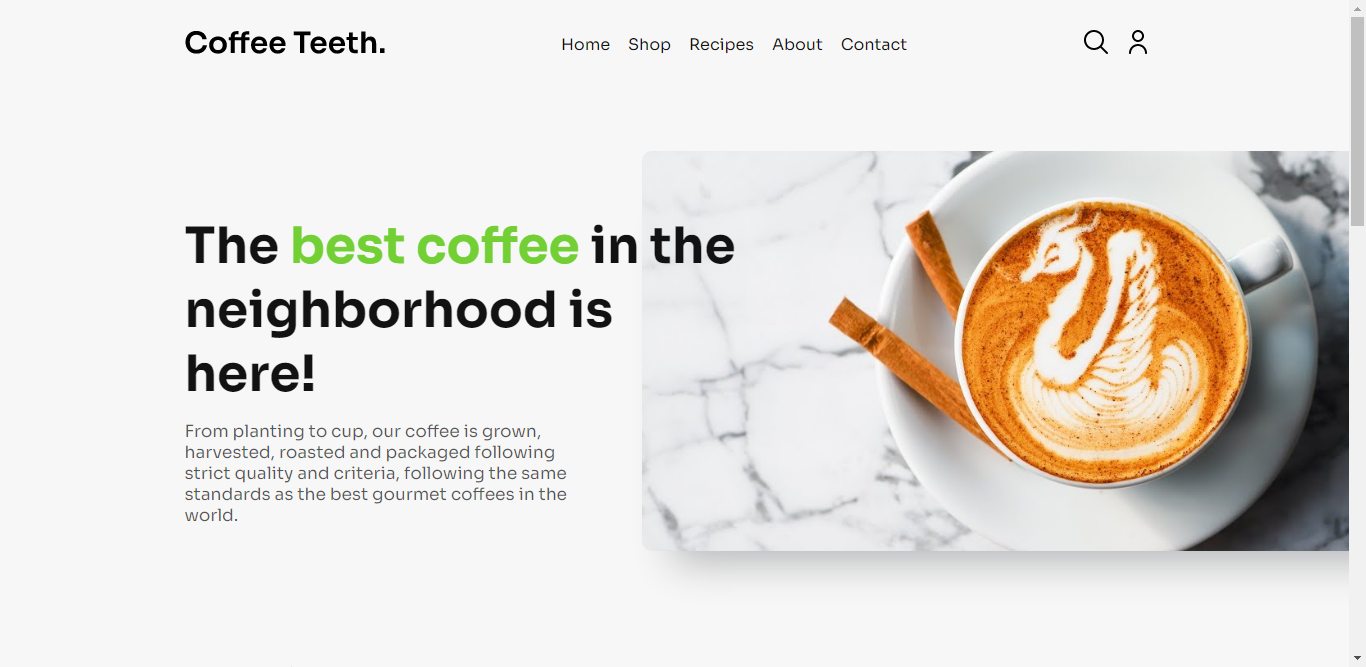
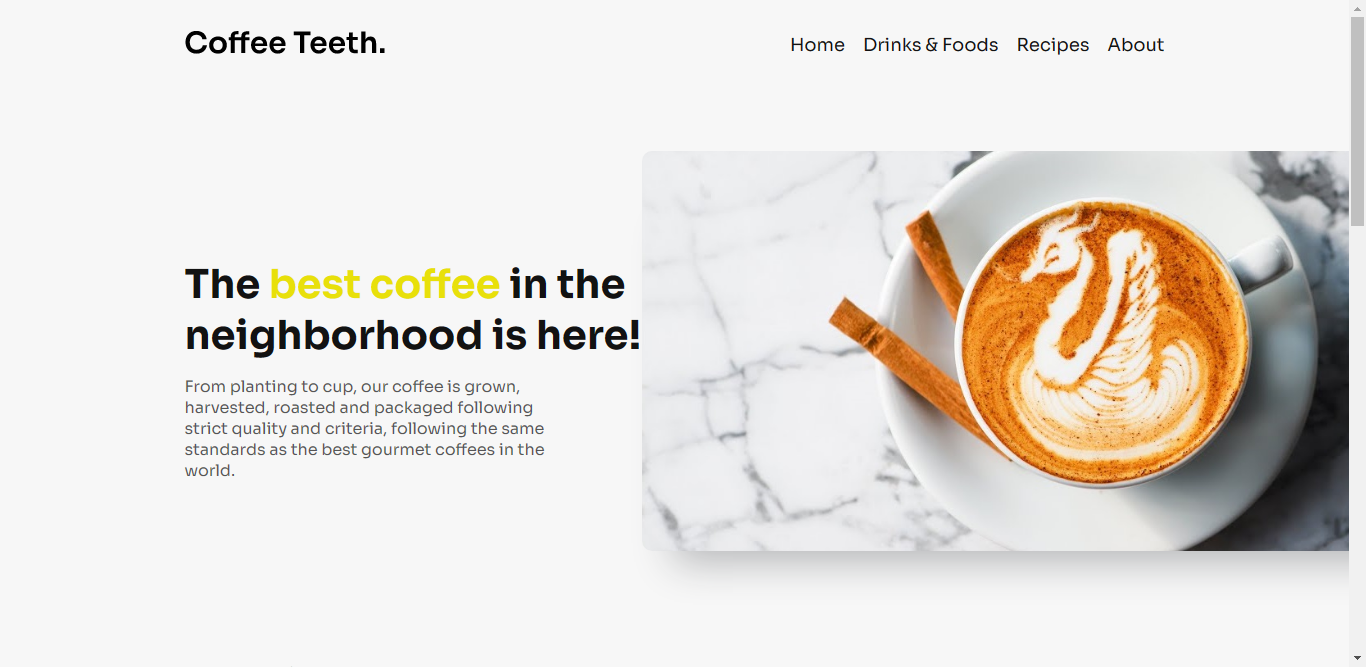
:lipstick: feat: modification in the styles of texts and cards :bricks: ci: image path modification

Changed region(s): [[0.123, 0.3298, 0.5534, 0.7796], [0.3997, 0.06, 0.8609, 0.09]]

diff --git a/styles/main.css b/styles/main.css
@@ -1,1 +1,1 @@
-*{box-sizing:border-box;margin:0;padding:0;outline:0;font-family:"Sora",sans-serif;color:#121212}* ul,* li{list-style:none}* a{text-decoration:none}html{font-size:62.5%}html,body{scroll-behavior:smooth;background:#f7f7f7;height:100vh;text-rendering:optimizelegibility;-webkit-font-smoothing:antialiased;position:relative;height:100%}body{font-size:1.6rem;overflow-x:hidden}@keyframes rainbow{0%{color:#4b32c1}25%{color:#b936c8}50%{color:#f15066}75%{color:#efe107}100%{color:#18c356}}header{position:fixed;top:0;z-index:999;background:#f7f7f7;width:100%;user-select:none;-webkit-user-select:none;-moz-user-select:none}header div.container{display:flex;justify-content:space-between;align-items:center;width:90%;max-width:980px;margin:auto;padding:30px 0}header div.container div.menu-section nav ul{display:flex;gap:1.8rem;transition:opacity .3s ease-out;font-size:1.8rem}header div.container div.menu-section nav ul li:hover{opacity:.5}header div.logo img{width:20rem;transition:opacity .3s ease-out}header div.logo img:hover{opacity:.5}header div.utility-menu{display:none}.addShadow{transform:shadow .3s ease-out;box-shadow:0 4px 6px -1px hwb(0 0% 100%/0.1),0 2px 4px -2px rgba(0,0,0,.1)}div.hero{display:flex;align-items:center;position:relative;width:90%;max-width:980px;height:580px;margin:auto;margin-top:80px}div.hero div.hero-image{width:88.5rem;max-width:885px;height:400px;background-image:url("../assets/hero-image.jpg");background-position:center;background-size:cover;background-repeat:no-repeat;box-shadow:0px 43px 38px -32px #b5b6b8;border-radius:10px;position:absolute;top:7.1rem;right:-36.2rem;z-index:1}div.hero div.hero-info{position:absolute;z-index:2}div.hero div.hero-info h2{font-size:4rem;width:560px}div.hero div.hero-info h2 span{animation:rainbow 2s infinite linear alternate}div.hero div.hero-info p{font-size:1.6rem;width:391px;margin-top:15px;opacity:.7}div.trending-coffees{height:-moz-fit-content;height:fit-content}div.trending-coffees div.container{width:90%;max-width:980px;margin:auto}div.trending-coffees div.container div.header{display:flex;align-items:center;justify-content:space-between}div.trending-coffees div.container div.header h2{font-size:3.4rem}div.trending-coffees div.container div.header h2 span{display:block}div.trending-coffees div.container div.header h2 span:last-child{color:#f15066}div.trending-coffees div.container div.header a:hover{opacity:.8;text-decoration:underline}div.trending-coffees div.container div.cards-wrapper{display:grid;align-items:center;gap:1.5rem;display:grid;grid-template-columns:repeat(auto-fit, minmax(250px, 1fr));grid-gap:20px;margin-top:50px}div.trending-coffees div.container div.cards-wrapper div.card-coffee{position:relative;cursor:pointer;user-select:none;-webkit-user-select:none;-moz-user-select:none;transition:transform .3s ease-out}div.trending-coffees div.container div.cards-wrapper div.card-coffee:hover{transform:scale(1.05);opacity:1}div.trending-coffees div.container div.cards-wrapper div.card-coffee img{width:100%;height:18rem;-o-object-fit:cover;object-fit:cover;border-radius:10px}div.trending-coffees div.container div.cards-wrapper div.card-coffee div.info{position:absolute;bottom:-10px;left:10px;font-size:1.6rem;font-weight:500;background:#fff;padding:5px;border-radius:10px;opacity:.8}div.some-recipes{height:-moz-fit-content;height:fit-content;margin:50px 0}div.some-recipes div.container{width:90%;max-width:980px;margin:auto}div.some-recipes div.container div.header{display:flex;align-items:center;justify-content:space-between}div.some-recipes div.container div.header h2{font-size:3.4rem}div.some-recipes div.container div.header h2 span{display:block}div.some-recipes div.container div.header h2 span:last-child{color:#4b32c1}div.some-recipes div.container div.header a:hover{opacity:.8;text-decoration:underline}div.some-recipes div.container div.recipes-wrapper{display:grid;align-items:center;gap:1.5rem;display:grid;grid-template-columns:repeat(auto-fit, minmax(250px, 1fr));grid-gap:20px;margin-top:50px}div.some-recipes div.container div.recipes-wrapper div.card-recipe{position:relative;cursor:pointer;user-select:none;-webkit-user-select:none;-moz-user-select:none;transition:transform .3s ease-out}div.some-recipes div.container div.recipes-wrapper div.card-recipe:hover{transform:scale(1.05)}div.some-recipes div.container div.recipes-wrapper div.card-recipe:hover .arrow{opacity:1;transform:rotate(45deg)}div.some-recipes div.container div.recipes-wrapper div.card-recipe img{width:100%;height:18rem;-o-object-fit:cover;object-fit:cover;border-radius:10px}div.some-recipes div.container div.recipes-wrapper div.card-recipe div.arrow{position:absolute;right:25px;bottom:25px;opacity:.75;transition:.3s ease-out;background:#414044;border-radius:50%;width:50px;height:50px;background-image:url(../assets/slanted-arrow.svg);background-position:center;background-repeat:no-repeat;background-size:cover}div.some-recipes div.container div.recipes-wrapper div.card-recipe h3{font-size:1.8rem;font-weight:500;display:-webkit-box;-webkit-line-clamp:1;-webkit-box-orient:vertical;overflow:hidden;text-overflow:ellipsis;opacity:.8;height:100%;word-break:keep-all}div.our-products{width:90%;max-width:980px;margin:120px auto;font-size:3.4rem}div.our-products h2{font-size:4rem}div.our-products h2 span:nth-child(2){color:#18c356}div.our-products div.search{display:flex;align-items:center;justify-content:center;gap:1rem;border:1px solid #121212;border-radius:5px;padding:10px;width:100%;max-width:980px;margin-top:40px;background:#fff}div.our-products div.search input{height:30px;padding:5px;border:none;background:none;flex:1}div.our-products div.search div.cross{display:none;line-height:1rem;cursor:pointer}div.our-products section{margin:40px 0}div.our-products section h3{font-size:3rem}div.our-products section div.drinks-container{display:grid;grid-template-columns:repeat(auto-fit, minmax(250px, 1fr));grid-gap:2rem;margin:30px 0 90px 0}div.our-products section div.drinks-container div.drink-card{position:relative;cursor:pointer;user-select:none;-webkit-user-select:none;-moz-user-select:none;transition:transform .3s ease-out}div.our-products section div.drinks-container div.drink-card:hover{transform:scale(1.05)}div.our-products section div.drinks-container div.drink-card:hover div.info h3{opacity:1}div.our-products section div.drinks-container div.drink-card img{width:100%;min-height:25rem;height:18rem;-o-object-fit:cover;object-fit:cover;border-radius:10px}div.our-products section div.drinks-container div.drink-card div.info{position:absolute;bottom:-10px;left:10px;background:#fff;padding:5px;border-radius:10px}div.our-products section div.drinks-container div.drink-card div.info h3{font-size:1.8rem;font-weight:500;display:-webkit-box;-webkit-line-clamp:1;-webkit-box-orient:vertical;overflow:hidden;text-overflow:ellipsis;opacity:.8;height:100%;word-break:keep-all}div.our-products section div.foods-container{display:grid;grid-template-columns:repeat(auto-fit, minmax(250px, 1fr));grid-gap:2rem;margin:30px 0 60px 0}div.our-products section div.foods-container div.food-card{position:relative;cursor:pointer;user-select:none;-webkit-user-select:none;-moz-user-select:none;transition:transform .3s ease-out}div.our-products section div.foods-container div.food-card:hover{transform:scale(1.05)}div.our-products section div.foods-container div.food-card:hover div.info h3{opacity:1}div.our-products section div.foods-container div.food-card img{width:100%;min-height:25rem;height:18rem;-o-object-fit:cover;object-fit:cover;border-radius:10px}div.our-products section div.foods-container div.food-card div.info{position:absolute;bottom:-10px;left:10px;background:#fff;padding:5px;border-radius:10px}div.our-products section div.foods-container div.food-card div.info h3{font-size:1.8rem;font-weight:500;display:-webkit-box;-webkit-line-clamp:1;-webkit-box-orient:vertical;overflow:hidden;text-overflow:ellipsis;opacity:.8;height:100%;word-break:keep-all}.our-recipes{width:90%;max-width:980px;margin:120px auto;font-size:3.4rem}.our-recipes h2{font-size:4rem}.our-recipes h2 span:nth-child(2){color:#efe107}.our-recipes div.search{display:flex;align-items:center;justify-content:center;gap:1rem;border:1px solid #121212;border-radius:5px;padding:10px;width:100%;max-width:980px;margin-top:40px;background:#fff}.our-recipes div.search input{height:30px;padding:5px;border:none;background:none;flex:1}.our-recipes div.search div.cross{display:none;line-height:1rem;cursor:pointer}.our-recipes section.all-recipes{margin:40px 0}.our-recipes section.all-recipes h3{font-size:2rem}.our-recipes section.all-recipes div.recipes-container{display:grid;grid-template-columns:repeat(auto-fit, minmax(250px, 1fr));grid-gap:2rem;margin:30px 0 60px 0}.our-recipes section.all-recipes div.recipes-container div.card-recipe{position:relative;cursor:pointer;user-select:none;-webkit-user-select:none;-moz-user-select:none;transition:transform .3s ease-out}.our-recipes section.all-recipes div.recipes-container div.card-recipe:hover{transform:scale(1.05)}.our-recipes section.all-recipes div.recipes-container div.card-recipe:hover .arrow{opacity:1;transform:rotate(45deg)}.our-recipes section.all-recipes div.recipes-container div.card-recipe img{width:100%;height:18rem;-o-object-fit:cover;object-fit:cover;border-radius:10px}.our-recipes section.all-recipes div.recipes-container div.card-recipe div.arrow{position:absolute;right:25px;bottom:25px;opacity:.75;transition:.3s ease-out;background:#414044;border-radius:50%;width:50px;height:50px;background-image:url(../assets/slanted-arrow.svg);background-position:center;background-repeat:no-repeat;background-size:cover}.our-recipes section.all-recipes div.recipes-container div.card-recipe h3{font-size:1.8rem;font-weight:500;display:-webkit-box;-webkit-line-clamp:1;-webkit-box-orient:vertical;overflow:hidden;text-overflow:ellipsis;opacity:.8;word-break:keep-all}.about-container{width:90%;max-width:980px;margin:120px auto;font-size:3.4rem}.about-container h2{margin-bottom:30px;font-size:4rem}.about-container h3{font-size:3rem;margin-bottom:10px}.about-container p{font-size:2.6rem}.about-container .initial-presentation{margin-bottom:50px}.about-container .initial-presentation a{text-decoration:underline;color:#4b32c1}.about-container .main-presentation{margin-bottom:50px}.about-container .main-presentation a{display:block;width:-moz-fit-content;width:fit-content;word-break:keep-all;margin-top:20px;padding:10px 20px;border-radius:5px;background:#121212;border:none;font-size:2rem;color:#fff;transition:background-color .3s ease-out;cursor:pointer}.about-container .main-presentation a:hover{background-color:#2c2c2c}.about-container .address-info{margin-bottom:50px}.about-container .address-info address,.about-container .address-info p{font-size:2.4rem}.about-container .address-info p{margin-top:10px}.about-container .final-presentation{background:#222020;padding:20px;border-radius:10px}.about-container .final-presentation *{color:#fff}.about-container .final-presentation .form-contact form input:not(input[type=submit]),.about-container .final-presentation textarea{display:block;width:100%;padding:10px;border:none;color:#000;margin:10px 0;border-radius:5px}.about-container .final-presentation textarea{height:80px}.about-container .final-presentation .input-messages{display:none;font-size:1.6rem;padding:10px;border-radius:5px;width:-moz-fit-content;width:fit-content;margin:10px 0}.about-container .final-presentation input[type=submit]{padding:10px 20px;background:#fff;color:#000;border:none;border-radius:5px;transition:transform .3s ease-out;cursor:pointer}.about-container .final-presentation input[type=submit]:hover{transform:scale(1.1)}.modal-overlay{display:none}.modal-overlay.active{display:block;position:fixed;top:0;left:0;z-index:99999;background:rgba(65,65,65,.4235294118);padding:20px;width:100vw;height:100vh}.modal-overlay.active .modal{background:#fff;height:100%;border-radius:10px;overflow-y:scroll}.modal-overlay.active .modal .close-modal{width:100%;text-align:right;padding:20px;border-radius:10px}.modal-overlay.active .modal .close-modal img{width:3rem;height:3rem}.modal-overlay.active .modal .close-modal img:hover{opacity:.7;cursor:pointer}.modal-overlay.active .modal .modal-content{text-align:center}.modal-overlay.active .modal .modal-content img{width:65%;height:45rem;border-radius:10px;-o-object-fit:cover;object-fit:cover;-o-object-position:center;object-position:center}.modal-overlay.active .modal .modal-content .name__price{display:flex;justify-content:space-between;align-items:center;width:65%;margin:auto;padding:20px 30px}.modal-overlay.active .modal .modal-content .description{text-align:left;width:65%;padding:10px 30px 30px 30px;margin:auto}footer{width:100%;background:#fff;border-top:1px solid #121212}footer div.container{display:flex;justify-content:space-between;align-items:baseline;width:90%;max-width:980px;margin:auto;padding:25px 0}footer div.container div.links{display:flex;gap:3rem}footer div.container div.links ul{display:flex;flex-direction:column;gap:.5rem}footer div.container div.links ul li.categories{font-size:2rem;font-weight:bold}footer div.container div.links ul li.link{opacity:.8}footer div.container div.links ul li.link:hover{text-decoration:underline}@media(max-width: 900px){div.hero{flex-direction:column-reverse;padding:30px 0}div.hero div.hero-info{position:static;padding:10px}div.hero div.hero-info h2{text-align:left;width:auto}div.hero div.hero-info p{margin:20px 0;text-align:left;width:auto}div.hero div.hero-image{position:static;width:90%;margin-bottom:20px;height:300rem}}@media(max-width: 800px){html{font-size:60%}header nav{display:none}header div.utility-menu{display:flex}div.one,div.two,div.three{background:#121212;height:4px;width:100%;margin:6px auto;border-radius:10px;transition-duration:.5s}div.menu-toggle{width:35px;height:40px;margin-right:20px;position:relative;cursor:pointer}div.menu-toggle:hover{opacity:.8}div.menu-section.on{position:absolute;top:0;left:0;display:flex;flex-direction:column;justify-content:center;width:100%;height:100vh;background-color:#fff}div.menu-section.on nav{display:block}div.menu-section.on nav ul{display:flex;flex-direction:column;text-align:center}div.menu-section.on nav ul li a{display:block;width:300px;margin:auto;transition-duration:.7s;font-size:3rem;line-height:4rem}div.menu-toggle.fixToggle{position:absolute;top:31px;right:48px;z-index:9999}div.menu-toggle.fixToggle div.two{opacity:0}div.menu-toggle.fixToggle div.one{transform:rotate(45deg) translate(7px, 7px)}div.menu-toggle.fixToggle div.three{transform:rotate(-45deg) translate(7px, -8px)}}@media(max-width: 700px){html{font-size:57%}}@media(max-width: 660px){div.hero div.hero-image{width:100%}}@media(max-width: 500px){.modal-overlay.active{padding:0;background:#fff}.modal-overlay.active .modal .modal-content img{width:100%;border-radius:0}}@media(max-width: 515px){footer div.container{flex-direction:column;gap:3rem}footer div.container a{text-align:center;width:100%}footer div.container div.links{justify-content:center;text-align:center;width:100%}}@media(max-width: 460px){html{font-size:52%}}@media(max-width: 280px){.modal-overlay.active{padding:0;background:#fff}.modal-overlay.active .modal .modal-content img{width:100%;height:auto;-o-object-fit:contain;object-fit:contain;border-radius:0}}/*# sourceMappingURL=main.css.map */
+*{box-sizing:border-box;margin:0;padding:0;outline:0;font-family:"Sora",sans-serif;color:#121212}* ul,* li{list-style:none}* a{text-decoration:none}html{font-size:62.5%}html,body{scroll-behavior:smooth;background:#f7f7f7;height:100vh;text-rendering:optimizelegibility;-webkit-font-smoothing:antialiased;position:relative;height:100%}body{font-size:1.6rem;overflow-x:hidden}@keyframes rainbow{0%{color:#4b32c1}25%{color:#b936c8}50%{color:#f15066}75%{color:#efe107}100%{color:#18c356}}header{position:fixed;top:0;z-index:999;background:#f7f7f7;width:100%;user-select:none;-webkit-user-select:none;-moz-user-select:none}header div.container{display:flex;justify-content:space-between;align-items:center;width:90%;max-width:980px;margin:auto;padding:30px 0}header div.container div.menu-section nav ul{display:flex;gap:1.8rem;transition:opacity .3s ease-out;font-size:1.8rem}header div.container div.menu-section nav ul li:hover{opacity:.5}header div.logo img{width:20rem;transition:opacity .3s ease-out}header div.logo img:hover{opacity:.5}header div.utility-menu{display:none}.addShadow{transform:shadow .3s ease-out;box-shadow:0 4px 6px -1px hwb(0 0% 100%/0.1),0 2px 4px -2px rgba(0,0,0,.1)}div.hero{display:flex;align-items:center;position:relative;width:90%;max-width:980px;height:580px;margin:auto;margin-top:80px}div.hero div.hero-image{width:88.5rem;max-width:885px;height:400px;background-image:url("../assets/hero-image.jpg");background-position:center;background-size:cover;background-repeat:no-repeat;box-shadow:0px 43px 38px -32px #b5b6b8;border-radius:10px;position:absolute;top:7.1rem;right:-36.2rem;z-index:1}div.hero div.hero-info{position:absolute;z-index:2}div.hero div.hero-info h2{font-size:4rem;width:560px}div.hero div.hero-info h2 span{animation:rainbow 2s infinite linear alternate}div.hero div.hero-info p{font-size:2rem;width:391px;margin-top:15px;opacity:.7}div.trending-coffees{height:-moz-fit-content;height:fit-content}div.trending-coffees div.container{width:90%;max-width:980px;margin:auto}div.trending-coffees div.container div.header{display:flex;align-items:center;justify-content:space-between}div.trending-coffees div.container div.header h2{font-size:3.4rem}div.trending-coffees div.container div.header h2 span{display:block}div.trending-coffees div.container div.header h2 span:last-child{color:#f15066}div.trending-coffees div.container div.header a{font-size:1.8rem}div.trending-coffees div.container div.header a:hover{opacity:.8;text-decoration:underline}div.trending-coffees div.container div.cards-wrapper{display:grid;align-items:center;gap:1.5rem;display:grid;grid-template-columns:repeat(auto-fit, minmax(250px, 1fr));grid-gap:20px;margin-top:50px}div.trending-coffees div.container div.cards-wrapper div.card-coffee{position:relative;cursor:pointer;user-select:none;-webkit-user-select:none;-moz-user-select:none;transition:transform .3s ease-out}div.trending-coffees div.container div.cards-wrapper div.card-coffee:hover{transform:scale(1.05);opacity:1}div.trending-coffees div.container div.cards-wrapper div.card-coffee img{width:100%;height:25rem;-o-object-fit:cover;object-fit:cover;border-radius:10px}div.trending-coffees div.container div.cards-wrapper div.card-coffee div.info{position:absolute;bottom:-10px;left:10px;font-size:1.6rem;font-weight:500;background:#fff;padding:5px;border-radius:10px;opacity:.8}div.some-recipes{height:-moz-fit-content;height:fit-content;margin:50px 0}div.some-recipes div.container{width:90%;max-width:980px;margin:auto}div.some-recipes div.container div.header{display:flex;align-items:center;justify-content:space-between}div.some-recipes div.container div.header h2{font-size:3.4rem}div.some-recipes div.container div.header h2 span{display:block}div.some-recipes div.container div.header h2 span:last-child{color:#4b32c1}div.some-recipes div.container div.header a{font-size:1.8rem}div.some-recipes div.container div.header a:hover{opacity:.8;text-decoration:underline}div.some-recipes div.container div.recipes-wrapper{display:grid;align-items:center;gap:1.5rem;display:grid;grid-template-columns:repeat(auto-fit, minmax(250px, 1fr));grid-gap:20px;margin-top:50px}div.some-recipes div.container div.recipes-wrapper div.card-recipe{position:relative;cursor:pointer;user-select:none;-webkit-user-select:none;-moz-user-select:none;transition:transform .3s ease-out}div.some-recipes div.container div.recipes-wrapper div.card-recipe:hover{transform:scale(1.05)}div.some-recipes div.container div.recipes-wrapper div.card-recipe:hover .arrow{opacity:1;transform:rotate(45deg)}div.some-recipes div.container div.recipes-wrapper div.card-recipe img{width:100%;height:25rem;-o-object-fit:cover;object-fit:cover;border-radius:10px}div.some-recipes div.container div.recipes-wrapper div.card-recipe div.arrow{position:absolute;right:25px;bottom:25px;opacity:.75;transition:.3s ease-out;background:#414044;border-radius:50%;width:50px;height:50px;background-image:url(../assets/slanted-arrow.svg);background-position:center;background-repeat:no-repeat;background-size:cover}div.some-recipes div.container div.recipes-wrapper div.card-recipe h3{font-size:1.8rem;font-weight:500;display:-webkit-box;-webkit-line-clamp:1;-webkit-box-orient:vertical;overflow:hidden;text-overflow:ellipsis;opacity:.8;height:100%;word-break:keep-all}div.our-products{width:90%;max-width:980px;margin:120px auto;font-size:3.4rem}div.our-products h2{font-size:4rem}div.our-products h2 span:nth-child(2){color:#18c356}div.our-products div.search{display:flex;align-items:center;justify-content:center;gap:1rem;border:1px solid #121212;border-radius:5px;padding:10px;width:100%;max-width:980px;margin-top:40px;background:#fff}div.our-products div.search input{height:30px;padding:5px;border:none;background:none;flex:1}div.our-products div.search div.cross{display:none;line-height:1rem;cursor:pointer}div.our-products section{margin:40px 0}div.our-products section h3{font-size:3rem}div.our-products section div.drinks-container{display:grid;grid-template-columns:repeat(auto-fit, minmax(250px, 1fr));grid-gap:2rem;margin:30px 0 90px 0}div.our-products section div.drinks-container div.drink-card{position:relative;cursor:pointer;user-select:none;-webkit-user-select:none;-moz-user-select:none;transition:transform .3s ease-out}div.our-products section div.drinks-container div.drink-card:hover{transform:scale(1.05)}div.our-products section div.drinks-container div.drink-card:hover div.info h3{opacity:1}div.our-products section div.drinks-container div.drink-card img{width:100%;min-height:25rem;height:18rem;-o-object-fit:cover;object-fit:cover;border-radius:10px}div.our-products section div.drinks-container div.drink-card div.info{position:absolute;bottom:-10px;left:10px;background:#fff;padding:5px;border-radius:10px}div.our-products section div.drinks-container div.drink-card div.info h3{font-size:1.8rem;font-weight:500;display:-webkit-box;-webkit-line-clamp:1;-webkit-box-orient:vertical;overflow:hidden;text-overflow:ellipsis;opacity:.8;height:100%;word-break:keep-all}div.our-products section div.foods-container{display:grid;grid-template-columns:repeat(auto-fit, minmax(250px, 1fr));grid-gap:2rem;margin:30px 0 60px 0}div.our-products section div.foods-container div.food-card{position:relative;cursor:pointer;user-select:none;-webkit-user-select:none;-moz-user-select:none;transition:transform .3s ease-out}div.our-products section div.foods-container div.food-card:hover{transform:scale(1.05)}div.our-products section div.foods-container div.food-card:hover div.info h3{opacity:1}div.our-products section div.foods-container div.food-card img{width:100%;min-height:25rem;height:18rem;-o-object-fit:cover;object-fit:cover;border-radius:10px}div.our-products section div.foods-container div.food-card div.info{position:absolute;bottom:-10px;left:10px;background:#fff;padding:5px;border-radius:10px}div.our-products section div.foods-container div.food-card div.info h3{font-size:1.8rem;font-weight:500;display:-webkit-box;-webkit-line-clamp:1;-webkit-box-orient:vertical;overflow:hidden;text-overflow:ellipsis;opacity:.8;height:100%;word-break:keep-all}.our-recipes{width:90%;max-width:980px;margin:120px auto;font-size:3.4rem}.our-recipes h2{font-size:4rem}.our-recipes h2 span:nth-child(2){color:#efe107}.our-recipes div.search{display:flex;align-items:center;justify-content:center;gap:1rem;border:1px solid #121212;border-radius:5px;padding:10px;width:100%;max-width:980px;margin-top:40px;background:#fff}.our-recipes div.search input{height:30px;padding:5px;border:none;background:none;flex:1}.our-recipes div.search div.cross{display:none;line-height:1rem;cursor:pointer}.our-recipes section.all-recipes{margin:40px 0}.our-recipes section.all-recipes h3{font-size:2rem}.our-recipes section.all-recipes div.recipes-container{display:grid;grid-template-columns:repeat(auto-fit, minmax(250px, 1fr));grid-gap:2rem;margin:30px 0 60px 0}.our-recipes section.all-recipes div.recipes-container div.card-recipe{position:relative;cursor:pointer;user-select:none;-webkit-user-select:none;-moz-user-select:none;transition:transform .3s ease-out}.our-recipes section.all-recipes div.recipes-container div.card-recipe:hover{transform:scale(1.05)}.our-recipes section.all-recipes div.recipes-container div.card-recipe:hover .arrow{opacity:1;transform:rotate(45deg)}.our-recipes section.all-recipes div.recipes-container div.card-recipe img{width:100%;height:18rem;-o-object-fit:cover;object-fit:cover;border-radius:10px}.our-recipes section.all-recipes div.recipes-container div.card-recipe div.arrow{position:absolute;right:25px;bottom:25px;opacity:.75;transition:.3s ease-out;background:#414044;border-radius:50%;width:50px;height:50px;background-image:url(../assets/slanted-arrow.svg);background-position:center;background-repeat:no-repeat;background-size:cover}.our-recipes section.all-recipes div.recipes-container div.card-recipe h3{font-size:1.8rem;font-weight:500;display:-webkit-box;-webkit-line-clamp:1;-webkit-box-orient:vertical;overflow:hidden;text-overflow:ellipsis;opacity:.8;word-break:keep-all}.about-container{width:90%;max-width:980px;margin:120px auto;font-size:3.4rem}.about-container h2{margin-bottom:30px;font-size:4rem}.about-container h3{font-size:3rem;margin-bottom:10px}.about-container p{font-size:2.6rem}.about-container .initial-presentation{margin-bottom:50px}.about-container .initial-presentation a{text-decoration:underline;color:#4b32c1}.about-container .main-presentation{margin-bottom:50px}.about-container .main-presentation a{display:inline-block;width:-moz-fit-content;width:fit-content;word-break:keep-all;margin-top:20px;padding:10px 20px;border-radius:5px;background:#121212;border:none;font-size:2rem;color:#fff;transition:background-color .3s ease-out;cursor:pointer}.about-container .main-presentation a:hover{background-color:#2c2c2c}.about-container .address-info{margin-bottom:50px}.about-container .address-info address,.about-container .address-info p{font-size:2.4rem}.about-container .address-info p{margin-top:10px}.about-container .final-presentation{background:#222020;padding:20px;border-radius:10px}.about-container .final-presentation *{color:#fff}.about-container .final-presentation .form-contact form input:not(input[type=submit]),.about-container .final-presentation textarea{display:block;width:100%;padding:10px;border:none;color:#000;margin:10px 0;border-radius:5px}.about-container .final-presentation textarea{height:80px}.about-container .final-presentation .input-messages{display:none;font-size:1.6rem;padding:10px;border-radius:5px;width:-moz-fit-content;width:fit-content;margin:10px 0}.about-container .final-presentation input[type=submit]{padding:10px 20px;background:#fff;color:#000;border:none;border-radius:5px;transition:transform .3s ease-out;cursor:pointer}.about-container .final-presentation input[type=submit]:hover{transform:scale(1.1)}.modal-overlay{display:none}.modal-overlay.active{display:block;position:fixed;top:0;left:0;z-index:99999;background:rgba(65,65,65,.4235294118);padding:20px;width:100vw;height:100vh}.modal-overlay.active .modal{background:#fff;height:100%;border-radius:10px;overflow-y:scroll}.modal-overlay.active .modal .close-modal{width:100%;text-align:right;padding:20px;border-radius:10px}.modal-overlay.active .modal .close-modal img{width:3rem;height:3rem}.modal-overlay.active .modal .close-modal img:hover{opacity:.7;cursor:pointer}.modal-overlay.active .modal .modal-content{text-align:center}.modal-overlay.active .modal .modal-content img{width:65%;height:45rem;border-radius:10px;-o-object-fit:cover;object-fit:cover;-o-object-position:center;object-position:center}.modal-overlay.active .modal .modal-content .name__price{display:flex;justify-content:space-between;align-items:center;width:65%;margin:auto;padding:20px 30px}.modal-overlay.active .modal .modal-content .description{text-align:left;width:65%;padding:10px 30px 30px 30px;margin:auto}footer{width:100%;background:#fff;border-top:1px solid #121212}footer div.container{display:flex;justify-content:space-between;align-items:baseline;width:90%;max-width:980px;margin:auto;padding:25px 0}footer div.container div.links{display:flex;gap:3rem}footer div.container div.links ul{display:flex;flex-direction:column;gap:.5rem}footer div.container div.links ul li.categories{font-size:2rem;font-weight:bold}footer div.container div.links ul li.link{opacity:.8}footer div.container div.links ul li.link:hover{text-decoration:underline}@media(max-width: 900px){div.hero{flex-direction:column-reverse;padding:30px 0}div.hero div.hero-info{position:static;padding:10px}div.hero div.hero-info h2{text-align:left;width:auto}div.hero div.hero-info p{margin:20px 0;text-align:left;width:auto}div.hero div.hero-image{position:static;width:90%;margin-bottom:20px;height:300rem}}@media(max-width: 800px){html{font-size:60%}header nav{display:none}header div.utility-menu{display:flex}div.one,div.two,div.three{background:#121212;height:4px;width:100%;margin:6px auto;border-radius:10px;transition-duration:.5s}div.menu-toggle{width:35px;height:40px;margin-right:20px;position:relative;cursor:pointer}div.menu-toggle:hover{opacity:.8}div.menu-section.on{position:absolute;top:0;left:0;display:flex;flex-direction:column;justify-content:center;width:100%;height:100vh;background-color:#fff}div.menu-section.on nav{display:block}div.menu-section.on nav ul{display:flex;flex-direction:column;text-align:center}div.menu-section.on nav ul li a{display:block;width:300px;margin:auto;transition-duration:.7s;font-size:3rem;line-height:4rem}div.menu-toggle.fixToggle{position:absolute;top:31px;right:48px;z-index:9999}div.menu-toggle.fixToggle div.two{opacity:0}div.menu-toggle.fixToggle div.one{transform:rotate(45deg) translate(7px, 7px)}div.menu-toggle.fixToggle div.three{transform:rotate(-45deg) translate(7px, -8px)}}@media(max-width: 700px){html{font-size:57%}}@media(max-width: 660px){div.hero div.hero-image{width:100%}}@media(max-width: 600px){.modal-overlay.active{padding:0;background:#fff}.modal-overlay.active .modal .modal-content img{width:100%;border-radius:0}.modal-overlay.active .modal .modal-content .name__price{width:95%}.modal-overlay.active .modal .modal-content .description{width:95%}}@media(max-width: 515px){footer div.container{flex-direction:column;gap:3rem}footer div.container a{text-align:center;width:100%}footer div.container div.links{justify-content:center;text-align:center;width:100%}}@media(max-width: 460px){html{font-size:52%}}@media(max-width: 280px){.modal-overlay.active{padding:0;background:#fff}.modal-overlay.active .modal .modal-content img{width:100%;height:auto;-o-object-fit:contain;object-fit:contain;border-radius:0}}/*# sourceMappingURL=main.css.map */

diff --git a/scripts/database.js b/scripts/database.js
@@ -250,7 +250,7 @@ data.forEach(({ section, img, name, price, description }) => {
   if (drinksSection) {
     const container = document.querySelector(".drinks-container");
     const card = `
-    <div class="drink-card" data-img="${img}" data-name="${name}" data-price="${price}" data-description="${description}">
+    <div class="drink-card" data-img="../${img}" data-name="${name}" data-price="${price}" data-description="${description}">
       <img src="../${img}" alt="${name} Image">
       <div class="info">
         <h3>${price} - ${name}</h3>
@@ -261,7 +261,7 @@ data.forEach(({ section, img, name, price, description }) => {
   } else if (foodsSection) {
     const container = document.querySelector(".foods-container");
     const card = `
-    <div class="food-card" data-img="${img}" data-name="${name}" data-price="${price}" data-description="${description}">
+    <div class="food-card" data-img="../${img}" data-name="${name}" data-price="${price}" data-description="${description}">
       <img src="../${img}" alt="${name} Image">
       <div class="info">
         <h3>${price} - ${name}</h3>
@@ -272,7 +272,7 @@ data.forEach(({ section, img, name, price, description }) => {
   } else if (recipeSection) {
     const container = document.querySelector("div.recipes-container");
     const card = `
-    <div class="card-recipe" data-img="${img}" data-name="${name}" data-price="${price}" data-description="${description}">
+    <div class="card-recipe" data-img="../${img}" data-name="${name}" data-price="${price}" data-description="${description}">
       <img src="../${img}" alt="thumbnail">
       <div class="arrow"></div>
       <h3>${name}</h3>

diff --git a/styles/_trendingCoffees.scss b/styles/_trendingCoffees.scss
@@ -23,9 +23,13 @@ div.trending-coffees {
         }
       }
 
-      a:hover {
-        opacity: 0.8;
-        text-decoration: underline;
+      a {
+        font-size: 1.8rem;
+
+        &:hover {
+          opacity: 0.8;
+          text-decoration: underline;
+        }
       }
     }
 
@@ -55,7 +59,7 @@ div.trending-coffees {
 
         img {
           width: 100%;
-          height: 18rem;
+          height: 25rem;
           object-fit: cover;
           border-radius: 10px;
         }

diff --git a/styles/_trendingRecipes.scss b/styles/_trendingRecipes.scss
@@ -24,9 +24,13 @@ div.some-recipes {
         }
       }
 
-      a:hover {
-        opacity: 0.8;
-        text-decoration: underline;
+      a {
+        font-size: 1.8rem;
+
+        &:hover {
+          opacity: 0.8;
+          text-decoration: underline;
+        }
       }
     }
 
@@ -60,7 +64,7 @@ div.some-recipes {
 
         img {
           width: 100%;
-          height: 18rem;
+          height: 25rem;
           object-fit: cover;
           border-radius: 10px;
         }

diff --git a/styles/_mediaQueries.scss b/styles/_mediaQueries.scss
@@ -130,14 +130,24 @@
   }
 }
 
-@media (max-width: 500px) {
+@media (max-width: 600px) {
   .modal-overlay.active {
     padding: 0;
     background: #fff;
 
-    .modal .modal-content img {
-      width: 100%;
-      border-radius: 0;
+    .modal .modal-content {
+      img {
+        width: 100%;
+        border-radius: 0;
+      }
+
+      .name__price {
+        width: 95%;
+      }
+
+      .description {
+        width: 95%;
+      }
     }
   }
 }

diff --git a/styles/_aboutPage.scss b/styles/_aboutPage.scss
@@ -31,7 +31,7 @@
     margin-bottom: 50px;
 
     a {
-      display: block;
+      display: inline-block;
       width: fit-content;
       word-break: keep-all;
       margin-top: 20px;

diff --git a/styles/_hero.scss b/styles/_hero.scss
@@ -45,7 +45,7 @@ div.hero {
     }
 
     p {
-      font-size: 1.6rem;
+      font-size: 2rem;
       width: 391px;
       margin-top: 15px;
       opacity: 0.7;
